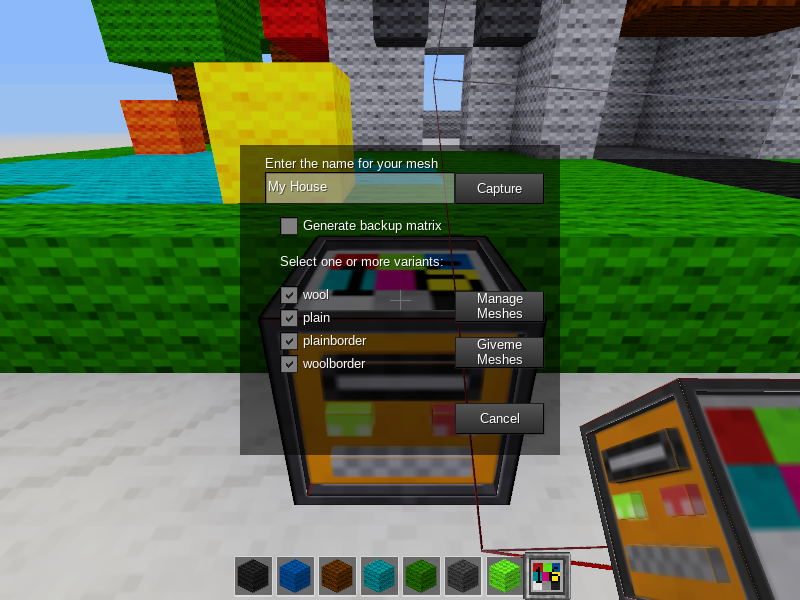
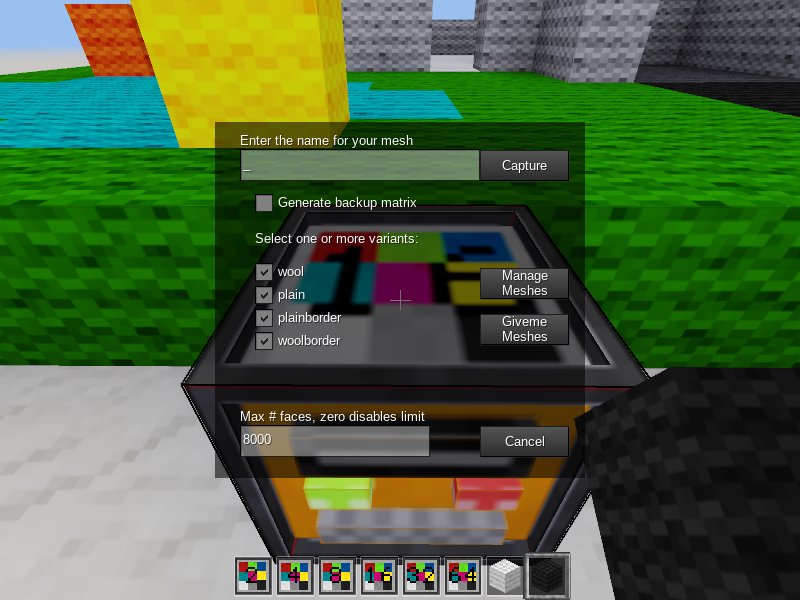
Updated README and screenshots with info about the newly added faces limit

diff --git a/README.md b/README.md
@@ -22,16 +22,13 @@ WIP MOD forum thread: https://forum.minetest.net/viewtopic.php?f=9&t=20115
     wesh:canvas08 (tin ingot)
     wesh:canvas16 (bronze ingot) - wesh:canvas gives you wesh:canvas16, kept for compatibility
     wesh:canvas32 (gold ingot)
-    wesh:canvas64 (diamond) read *careful* notice after the screenshot
+    wesh:canvas64 (diamond) read notice after the screenshot
 
 ![Canvas recipe](/screenshots/canvas-recipe.png)
 
-*CAREFUL* the largest canvas size may hang your game and crash it! Even if it doesn't crash it will most likely produce a mesh that the game isn't able to deal with!
+The largest canvas size is definitely able to crash your game or to create meshes too complex to be rendered if you try to grab too many nodes.
 
-You'll most likely end up with a dull gray miniature in the inventory and with a completely transparent node when placed in the world.
-
-This has been added to the mod just to let everybody (in particular the devs, if they're interested to) investigate on the thing.
-
+For that reason, there is an optional limit for the amount of captured faces. That limit can be freely altered or disabled in the capture dialog. If you don't alter that limit the game shouldn't crash and should always generate working meshes.
 
 # How to use
 
